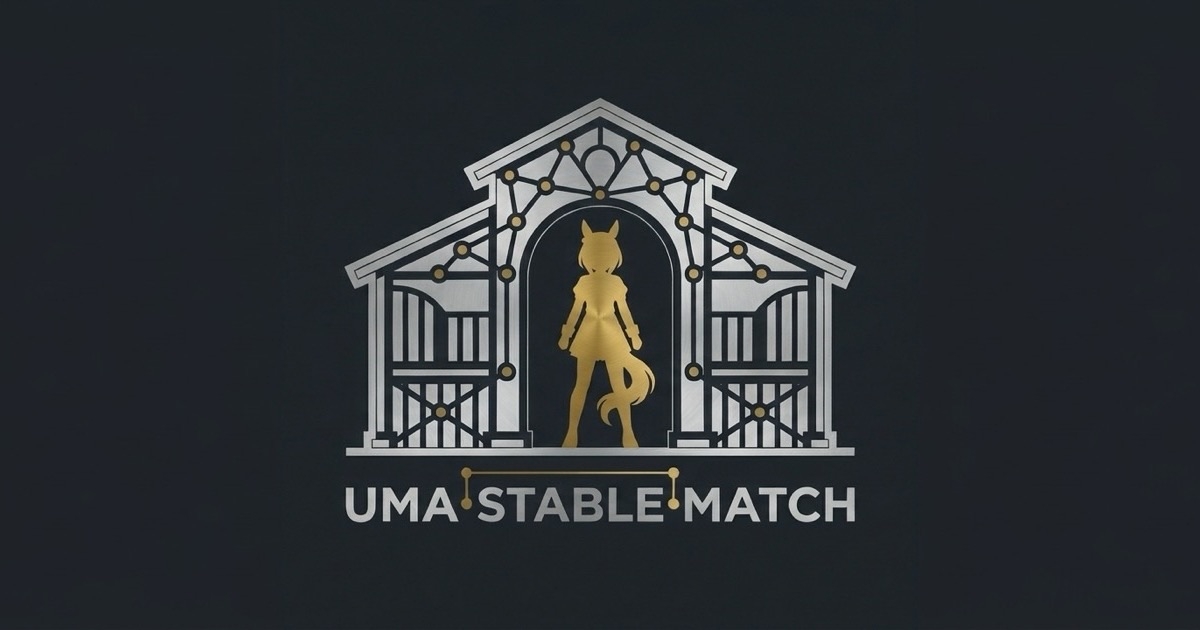
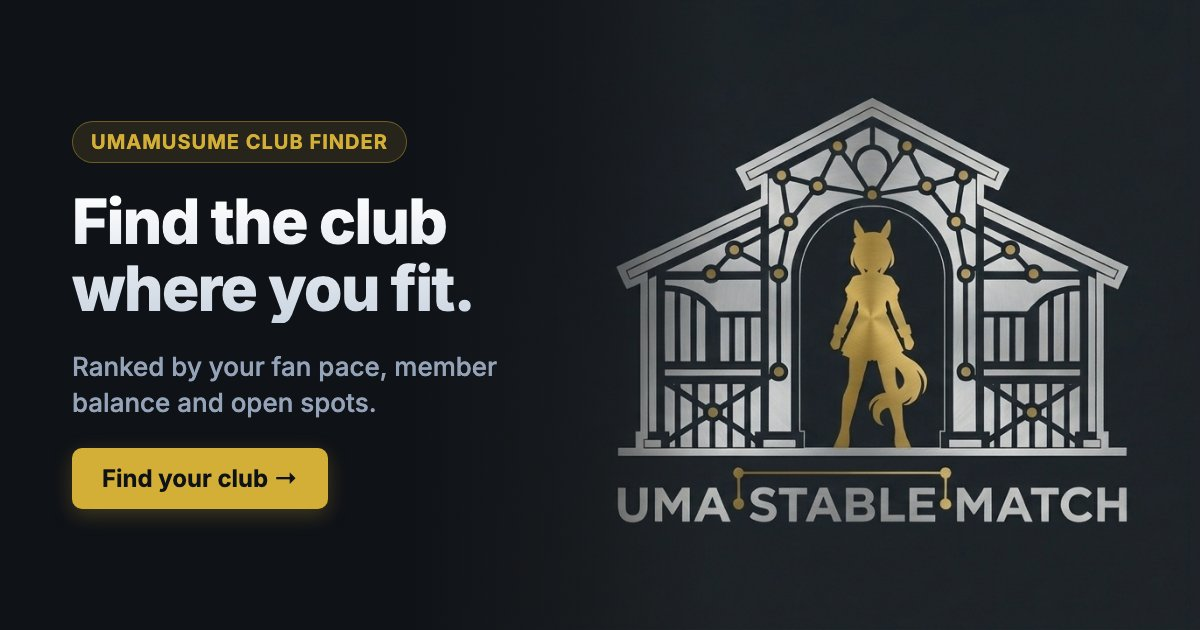
feat: use a headline card for link previews (#146) (#147)
feat: use a headline card for link previews

Changed region(s): [[0.0617, 0.1508, 0.9558, 0.8444], [0.0617, 0.181, 0.3392, 0.2714]]

diff --git a/docs/images/share-card.html b/docs/images/share-card.html
@@ -1,0 +1,90 @@
+<!DOCTYPE html>
+<html lang="en">
+<head>
+<meta charset="UTF-8" />
+<link href="https://fonts.googleapis.com/css2?family=Inter:wght@500;600;700;800&display=swap" rel="stylesheet">
+<style>
+    * { box-sizing: border-box; margin: 0; padding: 0; }
+    html, body { width: 1200px; height: 630px; overflow: hidden; }
+    body {
+        font-family: 'Inter', sans-serif;
+        background: #0f1217;
+        color: #f0f4f8;
+        position: relative;
+    }
+    .art {
+        position: absolute;
+        inset: 0;
+        background: url('hero.jpeg') no-repeat;
+        background-size: auto 630px;
+        background-position: 235px 0;
+    }
+    .shade {
+        position: absolute;
+        inset: 0;
+        background:
+            linear-gradient(90deg, #0f1217 0%, #0f1217 34%, rgba(15, 18, 23, 0.6) 48%, rgba(15, 18, 23, 0) 60%),
+            radial-gradient(circle at 18% 85%, rgba(212, 175, 55, 0.10) 0%, rgba(212, 175, 55, 0) 45%);
+    }
+    .text {
+        position: absolute;
+        left: 72px;
+        top: 0;
+        bottom: 0;
+        width: 520px;
+        display: flex;
+        flex-direction: column;
+        justify-content: center;
+        gap: 26px;
+    }
+    .badge {
+        align-self: flex-start;
+        background: rgba(212, 175, 55, 0.12);
+        color: #d4af37;
+        border: 1px solid rgba(212, 175, 55, 0.4);
+        padding: 8px 18px;
+        border-radius: 50px;
+        font-size: 20px;
+        font-weight: 700;
+        letter-spacing: 1px;
+        text-transform: uppercase;
+    }
+    h1 {
+        font-size: 62px;
+        font-weight: 800;
+        line-height: 1.08;
+        letter-spacing: -1.5px;
+        background: linear-gradient(180deg, #ffffff 0%, #cbd5e1 100%);
+        -webkit-background-clip: text;
+        background-clip: text;
+        -webkit-text-fill-color: transparent;
+    }
+    p {
+        font-size: 26px;
+        line-height: 1.4;
+        color: #94a3b8;
+        font-weight: 500;
+    }
+    .cta {
+        align-self: flex-start;
+        background: #d4af37;
+        color: #0f1217;
+        font-size: 24px;
+        font-weight: 700;
+        padding: 16px 30px;
+        border-radius: 10px;
+        box-shadow: 0 6px 20px rgba(212, 175, 55, 0.25);
+    }
+</style>
+</head>
+<body>
+    <div class="art"></div>
+    <div class="shade"></div>
+    <div class="text">
+        <span class="badge">Umamusume club finder</span>
+        <h1>Find the club where you fit.</h1>
+        <p>Ranked by your fan pace, member balance and open spots.</p>
+        <span class="cta">Find your club →</span>
+    </div>
+</body>
+</html>

diff --git a/site/index.html b/site/index.html
@@ -21,7 +21,7 @@
     <meta property="og:image" content="https://abnormallygrim.github.io/uma-stable-match/images/share.jpg" />
     <meta property="og:image:width" content="1200" />
     <meta property="og:image:height" content="630" />
-    <meta property="og:image:alt" content="Uma Stable Match logo: a silver stable gate with a gold horse girl silhouette." />
+    <meta property="og:image:alt" content="Umamusume club finder: find the club where you fit, ranked by your fan pace, member balance and open spots. Next to it, the Uma Stable Match logo." />
     <meta name="twitter:card" content="summary_large_image" />
 
     <script type="application/ld+json">
